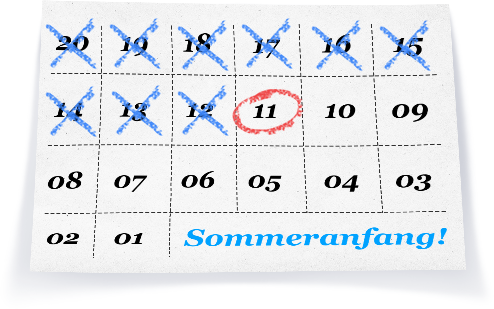
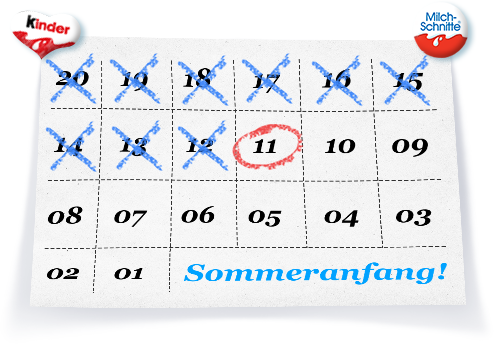
finish tabs without gradient

Changed region(s): [[0.0304, 0.0291, 0.9717, 0.8447], [0.0911, 0.7573, 0.3036, 0.8155]]

diff --git a/src/stylesheets/module/_tabs.scss b/src/stylesheets/module/_tabs.scss
@@ -1,0 +1,130 @@
+.summer-tabs {
+  @extend %relative;
+  width: 100%;
+  height: 1000px;
+  margin-top: -180px;
+
+  &-wrapper {
+    @extend %absolute;
+    width: 100%;
+    height: 1100px;
+    background: -webkit-linear-gradient(rgba(255,0,0,0) 0%, rgba(142,207,236,1) 20%, rgba(142,207,236,1) 100%);
+    background: -o-linear-gradient(rgba(255,0,0,0) 0%, rgba(142,207,236,1) 20%, rgba(142,207,236,1) 100%);
+    background: linear-gradient(rgba(255,0,0,0) 0%, rgba(142,207,236,1) 20%, rgba(142,207,236,1) 100%);
+
+  }
+
+  &-container {
+    @extend %overflow-hidden;
+    width: 960px;
+    background-color: #fff;
+    margin: 30px auto 0;
+    border-radius: 5px;
+  }
+
+  &-menu {
+    height: 60px;
+    width: 100%;
+    float: left;
+    clear: both;
+
+    li {
+      @extend %float-left, %text-center, %block;
+      width: 33.3333%;
+      height: 60px;
+      line-height: 60px;
+
+      &:not(:last-child) {
+        // border-right: 1px solid red;
+      }
+
+      &.active {
+        position: relative;
+        background-color: #03aef0;
+        z-index: 5;
+
+        a {
+          color: #fff;
+        }
+      }
+
+      a {
+        @extend %block, %font-bold, %font-italic;
+        padding: 0;
+        color: #00adf0;
+        font-size: 20px;
+        text-decoration: none;
+      }
+    }
+
+    .active {
+      a {
+        color: #2e7da3;
+      }
+    }
+  }
+
+  .summer-tab {
+    // border: 1px solid #d4d4d1;
+    background-color: #fff;
+    width: auto;
+
+    .content {
+      width: 100%;
+      padding: 20px;
+      display: none;
+    }
+  }
+
+  .gewinnspiel {
+    margin-top: 100px;
+    padding: 40px 100px;
+
+    &__title {
+      @extend %font-bold, %font-italic;
+      font-size: 32px;
+      span {
+        font-size: 26px;
+      }
+    }
+
+    &__desc {
+      color: #00adf0;
+      padding: 0;
+      margin-bottom: 0;
+    }
+  }
+
+  #gewinnspiel {
+   @extend %block;
+  }
+
+  #preise, #meine-lose {
+    @extend %hide;
+  }
+
+  .prizes {
+    @extend %overflow-hidden;
+
+    .prize {
+      @extend %text-center, %float-left;
+      width: 50%;
+
+      &__title,
+      &__content {
+        color: #00adf0;
+      }
+
+      &__title {
+        @extend %font-bold, %font-italic;
+        font-size: 32px;
+      }
+
+      &__content {
+        padding: 0;
+        font-size: 20px;
+      }
+    }
+  }
+}
+

diff --git a/src/stylesheets/base/_layout.scss b/src/stylesheets/base/_layout.scss
@@ -4353,7 +4353,7 @@ a .arrow, header .logo a,
 .tiny-slider .controls,
 .accordeon h1:before,
 .flex-direction-nav a, footer .nav li.last a {
-    background-image: url(../media/sprite.png);
+    background-image: url(../images/sprite.png);
     background-size: 500px 500px;
 }
 
@@ -6248,7 +6248,7 @@ body.home .product-teaser.bastelspass .product-teaser__content-wrapper h3 {
 
 a .product-teaser__content-wrapper h3:after {
     content: '';
-    background-image: url(../media/sprite.png);
+    background-image: url(../images/sprite.png);
     background-size: 500px 500px;
     background-position: 0px -329px;
     margin-left: 5px;
@@ -8637,7 +8637,7 @@ a.mover {
 .tips .arrow,
 .tips .toggle {
     background-color: transparent;
-    background-image: url(../media/sprite.png);
+    background-image: url(../images/sprite.png);
     background-repeat: no-repeat;
 }
 
@@ -13465,7 +13465,7 @@ input[type=number]::-webkit-inner-spin-button, input[type=number]::-webkit-outer
 }
 
 .btn-back:before {
-    background-image: url(../media/sprite.png);
+    background-image: url(../images/sprite.png);
     background-position: 10px -250px;
     content: '';
     width: 20px;
@@ -13497,7 +13497,7 @@ input[type=number]::-webkit-inner-spin-button, input[type=number]::-webkit-outer
 }
 
 .btn-forward:after {
-    background-image: url(../media/sprite.png);
+    background-image: url(../images/sprite.png);
     background-position: -32px -250px;
     content: '';
     width: 20px;
@@ -13515,12 +13515,12 @@ input[type=number]::-webkit-inner-spin-button, input[type=number]::-webkit-outer
 }
 
 .btn-back:before:hover {
-    background-image: url(../media/sprite.png);
+    background-image: url(../images/sprite.png);
     background-position: 10px -195px;
 }
 
 .btn-forward:after:hover {
-    background-image: url(../media/sprite.png);
+    background-image: url(../images/sprite.png);
     background-position: -32px -195px;
 }
 
@@ -16066,7 +16066,7 @@ body.product .zutaten .cta-btn.zutatenliste {
 }
 
 body.product .zutaten .cta-btn.zutatenliste .arrow {
-    background-image: url(../media/sprite.png);
+    background-image: url(../images/sprite.png);
     background-position: -173px -264px;
 }
 

diff --git a/src/stylesheets/module/_fridge.scss b/src/stylesheets/module/_fridge.scss
@@ -1,18 +1,10 @@
 .fridge {
   width: 100%;
   height: 1007px;
+  padding: 30px 0 0 0;
   background-image: url('../images/background.png');
   background-size: cover;
   background-repeat: no-repeat;
-}
-
-.tabs {
-  width: 100%;
-  height: 900px;
-  margin-top: -400px;
-  background: -webkit-linear-gradient(rgba(255,0,0,0) 0%, rgba(142,207,236,1) 30%, rgba(142,207,236,1) 100%);
-  background: -o-linear-gradient(rgba(255,0,0,0) 0%, rgba(142,207,236,1) 30%, rgba(142,207,236,1) 100%);
-  background: linear-gradient(rgba(255,0,0,0) 0%, rgba(142,207,236,1) 30%, rgba(142,207,236,1) 100%);
 }
 
 .container--fridge {
@@ -23,6 +15,7 @@
 .fridge {
   &-wrapper {
     @extend %float-left, %relative;
+    width: 60%;
   }
 
   &-content {
@@ -41,7 +34,7 @@
 
   &__countdown {
     @extend %absolute, %transform-50;
-    top: 50px;
+    top: 10px;
     left: 50%;
 
     img {
@@ -52,6 +45,34 @@
   &__open-button {
     @extend %absolute;
     top: 470px;
-    right: -10%;
+    right: -50px;
+  }
+}
+
+.headline {
+  &-wrapper {
+    @extend %float-right;
+    width: 40%;
+    margin-top: 35px;
+  }
+
+  &-logo {
+
+  }
+
+  &-slogan {
+    @extend %text-center;
+    color: #00acef;
+    font-size: 24px;
+    margin-top: -20px;
+
+    &--part {
+      margin: 0 0 5px 0;
+    }
+  }
+
+  &-product {
+    margin-top: 135px;
+    margin-left: 150px;
   }
 }

diff --git a/src/stylesheets/base/_extend.scss b/src/stylesheets/base/_extend.scss
@@ -17,3 +17,35 @@
 %transform-50 {
   transform: translate(-50%, 50%);
 }
+
+%text-center {
+  text-align: center;
+}
+
+%block {
+  display: block;
+}
+
+%hide {
+  display: none;
+}
+
+%inline {
+  display: inline;
+}
+
+%inline-block {
+  display: inline-block;
+}
+
+%overflow-hidden {
+  overflow: hidden;
+}
+
+%font-bold {
+  font-weight: bold;
+}
+
+%font-italic {
+  font-style: italic;
+}

diff --git a/src/stylesheets/module/_button.scss b/src/stylesheets/module/_button.scss
@@ -1,0 +1,11 @@
+.btn {
+  @extend %inline-block, %font-bold, %font-italic, %text-center;
+  width: auto;
+  height: 45px;
+  background-color: #e6391b;
+  color: #fff;
+  font-size: 18px;
+  vertical-align: middle;
+  padding: 10px 15px;
+  border-radius: 5px;
+}

diff --git a/src/stylesheets/main.scss b/src/stylesheets/main.scss
@@ -1,4 +1,6 @@
 @import 'base/extend',
         'base/bootstrap',
         'base/layout',
-        'module/fridge';
+        'module/fridge',
+        'module/tabs',
+        'module/button';
